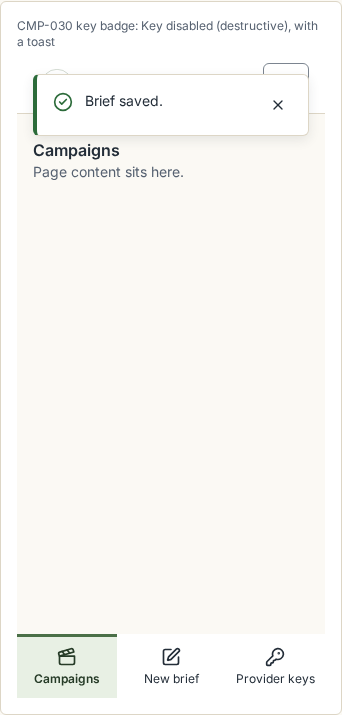
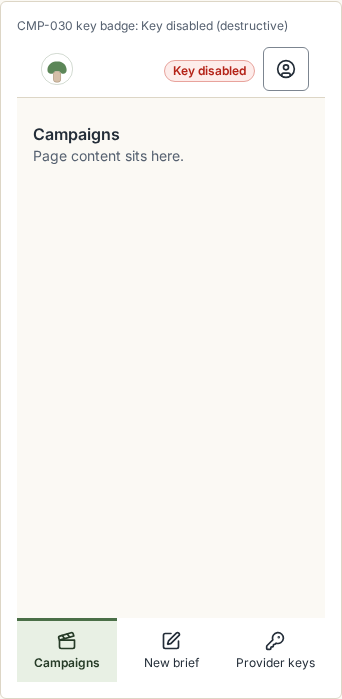
TASK-079: disabled and focus nav states, key badge and toast in separate cells, re-baselined (FE-079-01..03)

diff --git a/packages/ui/src/components/cmp-030/OperatorShell.tsx b/packages/ui/src/components/cmp-030/OperatorShell.tsx
@@ -39,9 +39,15 @@ export interface OperatorShellProps {
   menuOpen?: boolean;
   /** Gallery only: preview a nav item's hover look. */
   previewHover?: string;
+  /** Gallery only: render one nav item (by id) in its disabled state. */
+  previewDisabled?: string;
+  /** Gallery only: show the focus ring on a nav item (by id) or on the key badge (`key-badge`). */
+  previewFocus?: string;
 }
 
 const FOCUS = 'focus-visible:outline-2 focus-visible:outline-offset-2 focus-visible:outline-ring';
+
+const FOCUS_SHOWN = 'outline-2 outline-offset-2 outline-ring';
 
 const NAV_LAYOUT: Record<ShellLayout, string> = {
   auto: 'fixed inset-x-0 bottom-0 h-tabbar flex-row md:static md:inset-x-auto md:bottom-auto md:h-auto md:self-stretch md:w-rail md:flex-col md:border-r md:border-t-0 lg:w-sidebar',
@@ -50,7 +56,7 @@ const NAV_LAYOUT: Record<ShellLayout, string> = {
   tabbar: 'order-last h-tabbar w-full flex-row border-t',
 };
 
-function itemClasses(layout: ShellLayout, current: boolean, hover: boolean): string {
+function itemClasses(layout: ShellLayout, current: boolean, hover: boolean, focus = false, disabled = false): string {
   const shape =
     layout === 'tabbar'
       ? 'flex-1 flex-col justify-center gap-1 border-t-3 px-1 text-caption'
@@ -59,8 +65,8 @@ function itemClasses(layout: ShellLayout, current: boolean, hover: boolean): str
         : layout === 'sidebar'
           ? 'gap-3 border-l-3 px-4 min-h-control text-ui'
           : 'flex-1 flex-col justify-center gap-1 border-t-3 px-1 text-caption md:flex-none md:flex-row md:justify-center md:gap-3 md:border-l-3 md:border-t-0 md:px-2 md:text-ui md:min-h-control lg:justify-start lg:px-4';
-  const marker = current ? 'border-primary bg-sidebar-accent font-semibold text-sidebar-accent-foreground' : `border-transparent text-sidebar-foreground hover:bg-accent${hover ? ' bg-accent' : ''}`;
-  return `flex items-center ${shape} ${marker} ${FOCUS}`;
+  const marker = disabled ? 'border-transparent text-disabled-foreground cursor-not-allowed' : current ? 'border-primary bg-sidebar-accent font-semibold text-sidebar-accent-foreground' : `border-transparent text-sidebar-foreground hover:bg-accent${hover ? ' bg-accent' : ''}`;
+  return `flex items-center ${shape} ${marker} ${FOCUS}${focus ? ` ${FOCUS_SHOWN}` : ''}`;
 }
 
 function labelClasses(layout: ShellLayout): string {
@@ -69,12 +75,12 @@ function labelClasses(layout: ShellLayout): string {
   return '';
 }
 
-function NavLink({ item, layout, current, hover }: { item: NavItem; layout: ShellLayout; current: boolean; hover: boolean }) {
+function NavLink({ item, layout, current, hover, focus, disabled }: { item: NavItem; layout: ShellLayout; current: boolean; hover: boolean; focus: boolean; disabled: boolean }) {
   const collapsed = layout === 'rail';
   const label = <span className={labelClasses(layout)}>{item.label}</span>;
-  if (item.disabled) {
+  if (disabled) {
     return (
-      <span aria-disabled="true" data-state="disabled" className={`${itemClasses(layout, false, false)} cursor-not-allowed text-disabled-foreground`}>
+      <span aria-disabled="true" data-state="disabled" className={`${itemClasses(layout, false, false, false, true)}`}>
         <Icon name={item.icon} size={20} />
         {label}
       </span>
@@ -86,7 +92,7 @@ function NavLink({ item, layout, current, hover }: { item: NavItem; layout: Shel
       aria-current={current ? 'page' : undefined}
       data-state={current ? 'current' : hover ? 'hover' : 'default'}
       title={collapsed ? item.label : undefined}
-      className={itemClasses(layout, current, hover)}
+      className={itemClasses(layout, current, hover, focus)}
     >
       <Icon name={item.icon} size={20} />
       {label}
@@ -112,6 +118,8 @@ export function OperatorShell({
   embedded = false,
   menuOpen = false,
   previewHover,
+  previewDisabled,
+  previewFocus,
 }: OperatorShellProps) {
   useShellDocument(pageName);
   const go = (href: string) => (onNavigate ? onNavigate(href) : window.location.assign(href));
@@ -139,7 +147,7 @@ export function OperatorShell({
         <LogoLink href="/campaigns" logo={{ form: 'mark', size: 32 }} className="shrink-0 @xs:hidden" />
         <div className="flex min-w-0 items-center gap-2 md:gap-3">
           {keyState !== 'ok' ? (
-            <a href={PROVIDER_KEYS_HREF} data-key-badge={keyState} className={`rounded-full ${FOCUS}`}>
+            <a href={PROVIDER_KEYS_HREF} data-key-badge={keyState} className={`rounded-full ${FOCUS}${previewFocus === 'key-badge' ? ` ${FOCUS_SHOWN}` : ''}`}>
               <Badge variant={keyState === 'missing' ? 'warning' : 'destructive'}>
                 {keyState === 'missing' ? 'Add provider keys' : 'Key disabled'}
               </Badge>
@@ -166,7 +174,7 @@ export function OperatorShell({
           className={`z-20 flex shrink-0 gap-1 border-sidebar-border bg-sidebar p-0 md:gap-1 md:p-2 ${NAV_LAYOUT[layout]}`}
         >
           {OPERATOR_NAV.map((item) => (
-            <NavLink key={item.id} item={item} layout={layout} current={current?.id === item.id} hover={previewHover === item.id} />
+            <NavLink key={item.id} item={item} layout={layout} current={current?.id === item.id} hover={previewHover === item.id} focus={previewFocus === item.id} disabled={item.disabled === true || previewDisabled === item.id} />
           ))}
         </nav>
         <main id="main-content" tabIndex={-1} className="min-w-0 flex-1 px-4 py-6 pb-24 outline-none md:px-6 md:pb-6 lg:px-8">

diff --git a/apps/web/e2e/shell-op.spec.ts b/apps/web/e2e/shell-op.spec.ts
@@ -55,7 +55,23 @@ test.describe('@TASK-079 operator shell (CMP-030) through the built web app', ()
     await expect(missing.locator('[data-variant=warning]')).toBeVisible();
     const disabled = page.locator(cell('shell-key-disabled')).getByRole('link', { name: 'Key disabled' });
     await expect(disabled.locator('[data-variant=destructive]')).toBeVisible();
-    await expect(page.locator(cell('shell-key-disabled')).getByText('Brief saved.')).toBeVisible();
+    await disabled.click({ trial: true });
+    await expect(page.locator(cell('shell-toast')).getByText('Brief saved.')).toBeVisible();
+  });
+
+  test('disabled nav item is not a link and not focusable; focus rings are drawn', async ({ page }) => {
+    await page.setViewportSize({ width: 1440, height: 900 });
+    await page.goto('/gallery');
+    const d = page.locator(cell('shell-nav-disabled')).getByRole('navigation', { name: 'Main' });
+    await expect(d.getByRole('link')).toHaveText(['Campaigns', 'Provider keys']);
+    const item = d.locator('[aria-disabled=true]');
+    await expect(item).toHaveText('New brief');
+    await expect(item).not.toHaveAttribute('href');
+    await expect(item).not.toHaveAttribute('tabindex');
+    for (const [id, name] of [['shell-nav-focus', 'Provider keys'], ['shell-key-focus', 'Add provider keys']]) {
+      const link = page.locator(cell(id)).getByRole('link', { name });
+      expect(await link.evaluate((e) => getComputedStyle(e).outlineWidth)).toBe('2px');
+    }
   });
 
   test('responsive: tab bar under 768 px, rail 64 px at 768 px, sidebar 240 px from 1024 px', async ({ page }) => {
@@ -79,8 +95,8 @@ test.describe('@TASK-079 operator shell (CMP-030) through the built web app', ()
   });
 
   const SHOTS: Record<string, string[]> = {
-    '1440': ['shell-user-sidebar', 'shell-nav-states', 'shell-rail', 'shell-tabbar', 'shell-menu-user', 'shell-admin', 'shell-key-missing', 'shell-key-disabled', 'shell-auto'],
-    '390': ['shell-tabbar', 'shell-menu-user', 'shell-admin', 'shell-key-missing', 'shell-key-disabled', 'shell-auto'],
+    '1440': ['shell-user-sidebar', 'shell-nav-states', 'shell-rail', 'shell-tabbar', 'shell-menu-user', 'shell-admin', 'shell-key-missing', 'shell-key-disabled', 'shell-toast', 'shell-nav-disabled', 'shell-nav-focus', 'shell-key-focus', 'shell-auto'],
+    '390': ['shell-tabbar', 'shell-menu-user', 'shell-admin', 'shell-key-missing', 'shell-key-disabled', 'shell-toast', 'shell-nav-disabled', 'shell-nav-focus', 'shell-key-focus', 'shell-auto'],
     '768': ['shell-auto'],
   };
   for (const [name, ids] of Object.entries(SHOTS)) {

diff --git a/apps/web/src/app/gallery/sections/fe-shell-operator.tsx b/apps/web/src/app/gallery/sections/fe-shell-operator.tsx
@@ -16,7 +16,7 @@ export default function FeShellOperatorSection() {
       <Cell id="shell-user-sidebar" label="CMP-030 role user, sidebar 240 px (1024 px and up)">
         <ShellDemo layout="sidebar" />
       </Cell>
-      <Cell id="shell-nav-states" label="CMP-030 nav item states: current, hover (preview), default; focus with Tab">
+      <Cell id="shell-nav-states" label="CMP-030 nav item states: current, hover (preview), default">
         <ShellDemo layout="sidebar" path="/campaigns/new" previewHover="provider-keys" />
       </Cell>
       <Cell id="shell-rail" label="CMP-030 collapsed rail 64 px (768 to 1023 px), labels kept as accessible names">
@@ -34,8 +34,20 @@ export default function FeShellOperatorSection() {
       <Cell id="shell-key-missing" label="CMP-030 key badge: Add provider keys (warning)">
         <ShellDemo keyState="missing" />
       </Cell>
-      <Cell id="shell-key-disabled" label="CMP-030 key badge: Key disabled (destructive), with a toast">
-        <ShellDemo keyState="disabled" toasts={TOAST} />
+      <Cell id="shell-key-disabled" label="CMP-030 key badge: Key disabled (destructive)">
+        <ShellDemo keyState="disabled" />
+      </Cell>
+      <Cell id="shell-toast" label="CMP-030 toast region with a toast (top right)">
+        <ShellDemo toasts={TOAST} />
+      </Cell>
+      <Cell id="shell-nav-disabled" label="CMP-030 nav item disabled (New brief)">
+        <ShellDemo layout="sidebar" previewDisabled="new-brief" />
+      </Cell>
+      <Cell id="shell-nav-focus" label="CMP-030 focus ring on a nav item (Provider keys)">
+        <ShellDemo layout="sidebar" previewFocus="provider-keys" />
+      </Cell>
+      <Cell id="shell-key-focus" label="CMP-030 focus ring on the key badge">
+        <ShellDemo keyState="missing" previewFocus="key-badge" />
       </Cell>
       <Cell id="shell-auto" label="CMP-030 responsive (follows the viewport: tab bar, rail, sidebar)">
         <ShellDemo layout="auto" path="/campaigns/new" />

diff --git a/packages/ui/src/components/cmp-030/OperatorShell.test.tsx b/packages/ui/src/components/cmp-030/OperatorShell.test.tsx
@@ -17,6 +17,24 @@ const shell = (props: Partial<OperatorShellProps> = {}) =>
   );
 
 describe('CMP-030 OperatorShell', () => {
+  it('renders a disabled nav item as non-link, not focusable', () => {
+    shell({ previewDisabled: 'new-brief' });
+    const nav = screen.getByRole('navigation', { name: 'Main' });
+    expect(within(nav).getAllByRole('link').map((l) => l.textContent)).toEqual(['Campaigns', 'Provider keys']);
+    const item = nav.querySelector('[aria-disabled=true]');
+    expect(item).toHaveTextContent('New brief');
+    expect(item).not.toHaveAttribute('href');
+    expect(item).not.toHaveAttribute('tabindex');
+  });
+
+  it('can show the focus ring on a nav item and on the key badge', () => {
+    shell({ keyState: 'missing', previewFocus: 'provider-keys' });
+    expect(screen.getByRole('link', { name: 'Provider keys' }).className).toContain('outline-2');
+    cleanup();
+    shell({ keyState: 'missing', previewFocus: 'key-badge' });
+    expect(screen.getByRole('link', { name: 'Add provider keys' }).className).toContain('outline-2');
+  });
+
   it('has the skip link first, header, Main nav and main landmarks, and no axe violations', async () => {
     const { container } = shell({ userName: 'Alex' });
     const first = container.querySelector('a, button');
